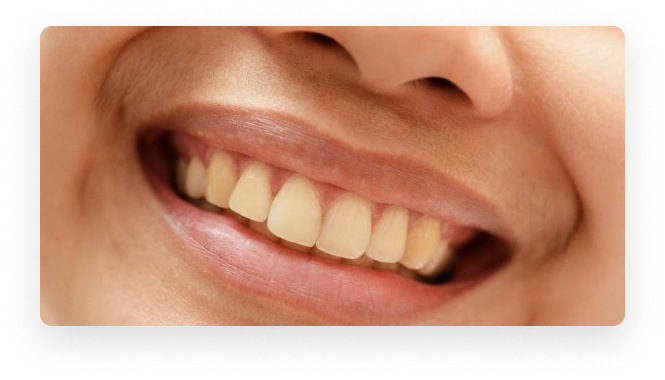
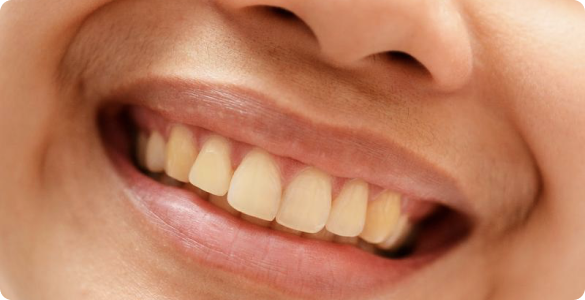
fix

diff --git a/source/sass/blocks/caries-ba.scss b/source/sass/blocks/caries-ba.scss
@@ -15,7 +15,6 @@
 
     position: relative;
     border-radius: 12px;
-    box-shadow: 0px 14px 40px rgba(0, 0, 0, 0.14);
 
     @media(max-width: 1023px) {
       width: calc(50% - 5px);
@@ -34,8 +33,8 @@
       color: #FFFFFF;
       position: absolute;
       display: flex;
-      bottom: 45px;
-      left: 30px;
+      bottom: 30px;
+      left: 26px;
 
       @media(max-width: 1023px) {
         box-sizing: border-box;
@@ -73,7 +72,8 @@
       object-fit: contain;
       width: 100%;
       height: auto;
-
+      border-radius: 12px;;
+      box-shadow: 0px 14px 40px rgba(0, 0, 0, 0.14);
     }
   }
 

diff --git a/source/index.html b/source/index.html
@@ -11,7 +11,7 @@
 <a href="stock-item.html">Акции внутренняя</a><br>
 <a href="testimonials.html">Отзывы</a><br>
 <a href="work.html">Вакансии</a><br>
-<a href="about.html">Цены</a><br>
+<a href="about.html">О компании</a><br>
 <a href="main.html">Главная</a><br>
 <a href="caries.html">Кариес</a><br>
 <a href="price.html">Цены</a><br>
